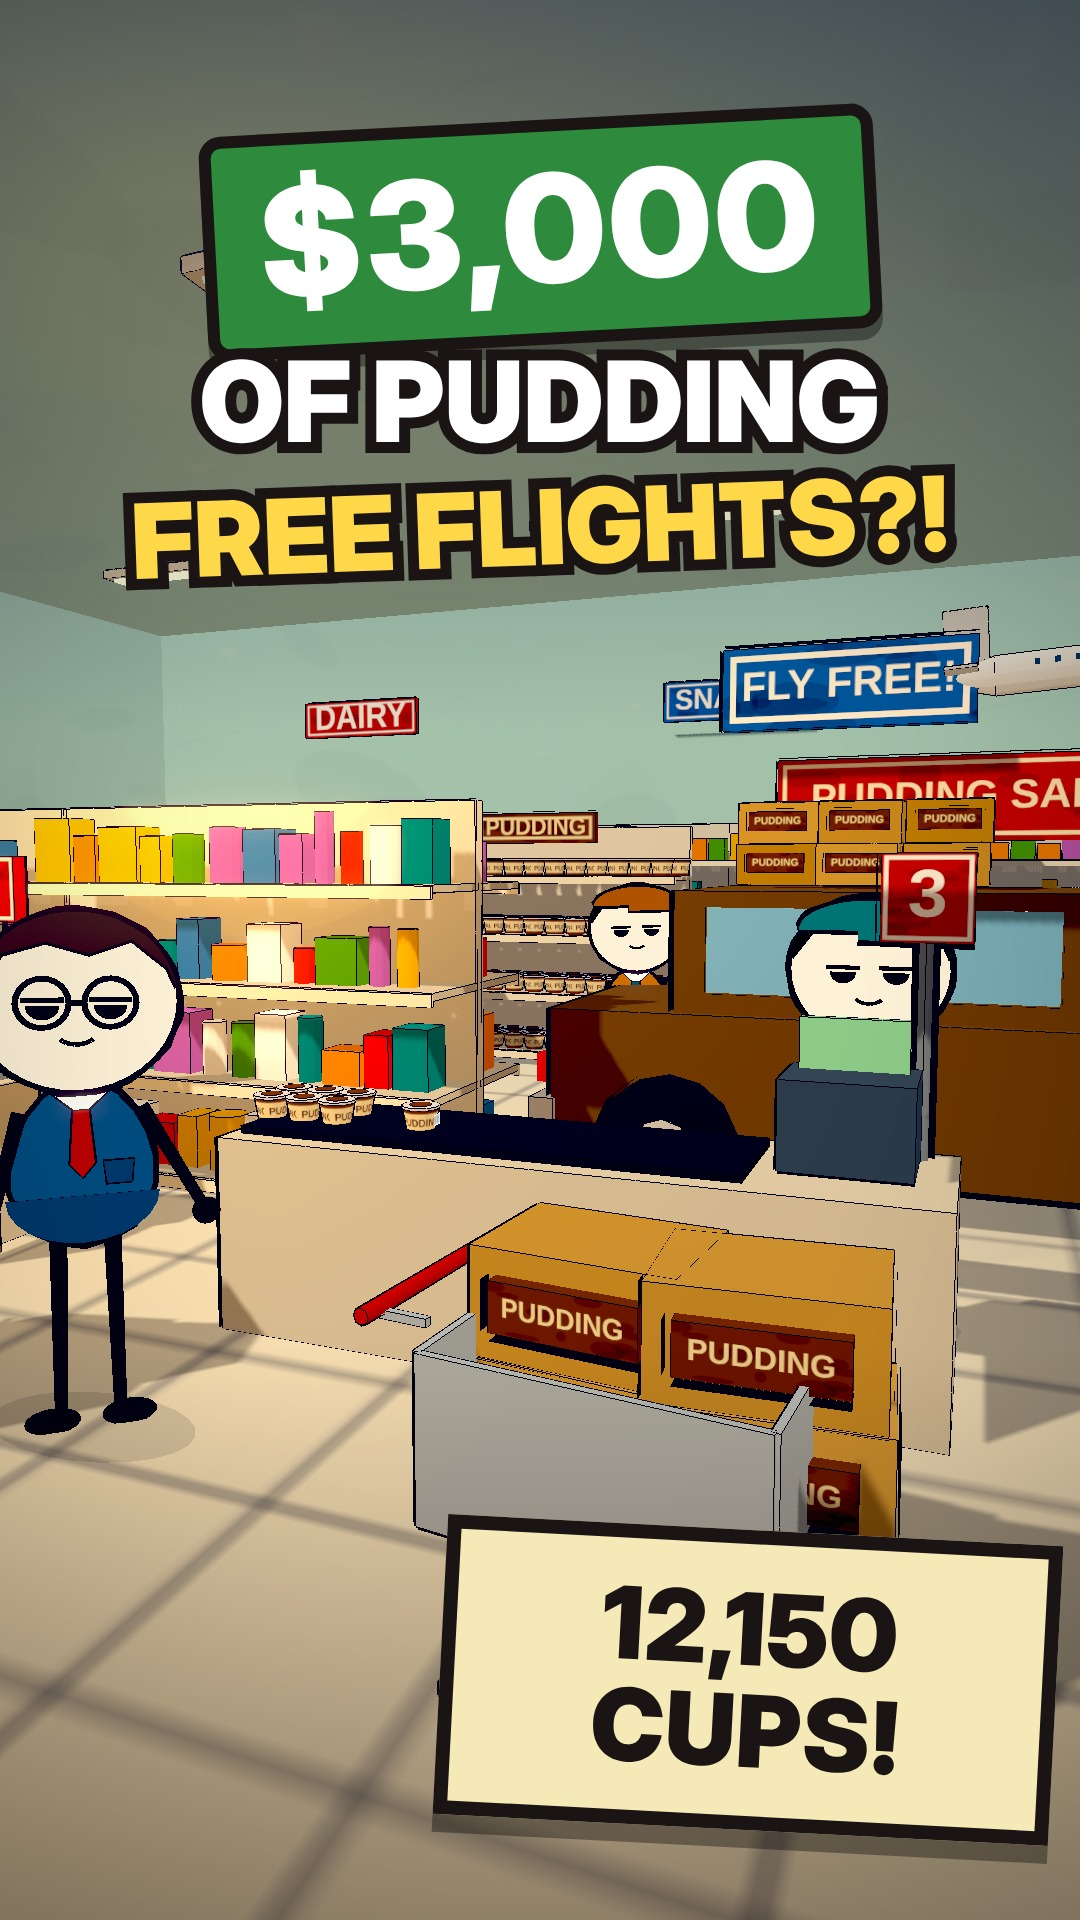
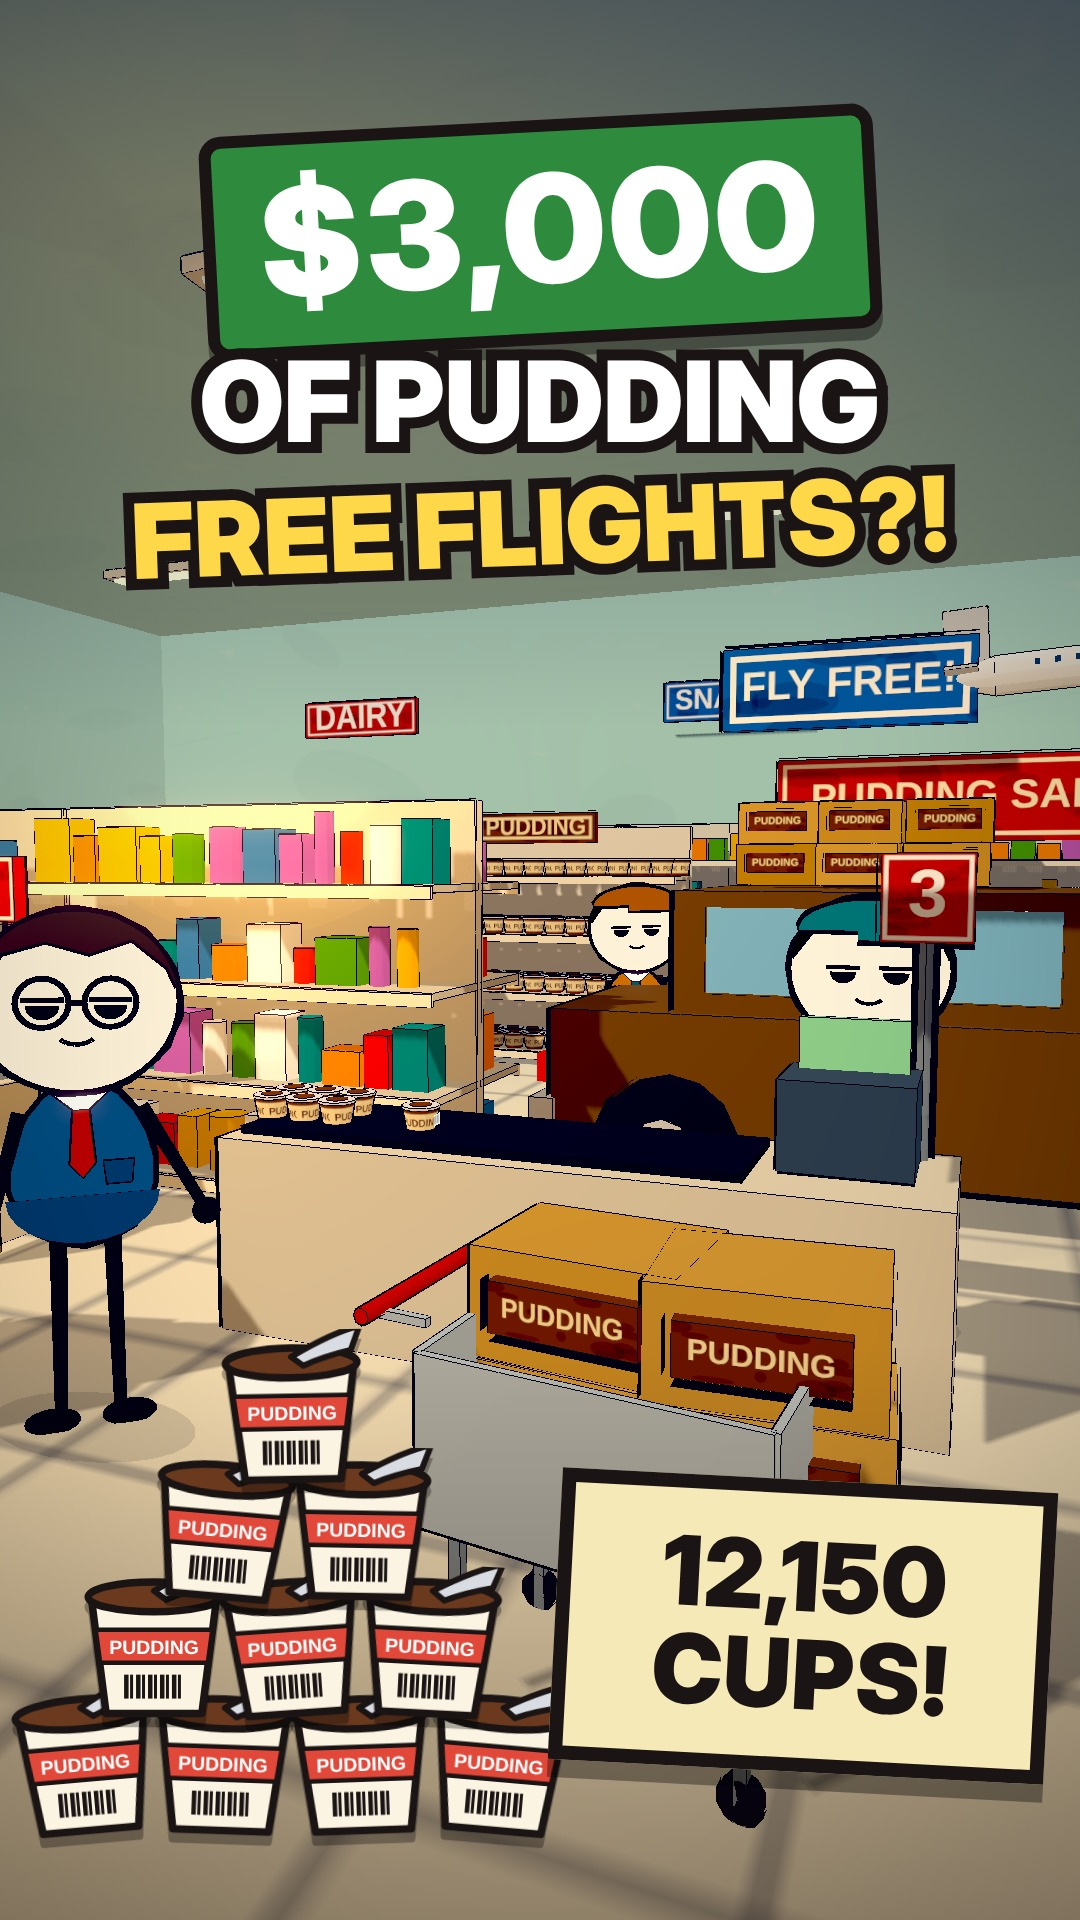
003-pudding-guy-free-flights: thumbnail with pile of pudding cups + 12,150 CUPS sign
Claude-Session: https://claude.ai/code/session_01CJVLf5XdCdR31mjai11GES

Changed region(s): [[0.0, 0.6875, 1.0, 0.9688]]

diff --git a/pipeline/thumbnail/make_thumb.py b/pipeline/thumbnail/make_thumb.py
@@ -10,6 +10,8 @@ Reads jobs/<id>/meta.json:
 - optional "sign": {"text": "LAND FOR SALE", "x": 25, "y": 870, "w": 590, "size": 92, "rotate": -3}
   draws a big, clean sign board over the scene (use it when the owner wants a prop/sign bigger or easier to read;
   place it over the 3D sign so the original post still shows under it). Coordinates are on the 1080x1920 canvas.
+- optional "cups": {"x": 10, "y": 1330, "rows": 4, "size": 150, "label": "PUDDING"} draws a pyramid of big cartoon
+  cups (generic, no logo) so the object itself grabs attention; pair it with a "sign" for the number.
 Renders a clean frame (no captions) with Remotion, overlays the text, writes jobs/<id>/thumbnail.jpg.
 """
 import json, os, subprocess, sys, shutil, html
@@ -28,12 +30,30 @@ if sg:
                  f'outline-offset:-30px;box-shadow:0 18px 0 rgba(0,0,0,.35);padding:34px 24px;text-align:center;'
                  f'font-family:\'Inter Display\',\'Arial Black\',Arial,sans-serif;font-weight:900;font-size:{sg.get("size",92)}px;'
                  f'line-height:1.02;color:#1a1414;letter-spacing:1px">{e(sg["text"])}</div>')
+cp = t.get('cups'); cups_html = ''
+if cp:  # optional pile of big cartoon cups (generic, no logo): {"x","y","rows","size","label","pudding"}
+    s = cp.get('size', 130); rows = cp.get('rows', 4); lab = e(cp.get('label', 'PUDDING')); fill = cp.get('pudding', '#6b3a1e')
+    cup = (f'<svg width="{s}" height="{int(s*1.05)}" viewBox="0 0 100 105" xmlns="http://www.w3.org/2000/svg">'
+           f'<path d="M8 22 L92 22 L82 100 L18 100 Z" fill="#fbf4e2" stroke="#1a1414" stroke-width="5" stroke-linejoin="round"/>'
+           f'<path d="M11 44 L89 44 L86 66 L14 66 Z" fill="#e2483a" stroke="#1a1414" stroke-width="3"/>'
+           f'<text x="50" y="60" text-anchor="middle" font-family="Arial Black,Arial" font-weight="900" font-size="13" fill="#fff">{lab}</text>'
+           + ''.join(f'<rect x="{30+i*4}" y="74" width="{2 if i%2 else 3}" height="16" fill="#1a1414"/>' for i in range(10)) +
+           f'<ellipse cx="50" cy="22" rx="44" ry="10" fill="{fill}" stroke="#1a1414" stroke-width="5"/>'
+           f'<path d="M50 18 Q78 2 96 -2 L90 14 Q72 18 58 24 Z" fill="#d9dde3" stroke="#1a1414" stroke-width="4" stroke-linejoin="round"/>'
+           f'</svg>')
+    for r in range(rows):  # bottom row first; each row one cup shorter, centred
+        n = rows - r; w = s * 0.92
+        for i in range(n):
+            left = cp.get('x', 20) + r * w / 2 + i * w; top = cp.get('y', 1440) + (rows - 1 - r) * s * 0.78
+            rot = ((i * 7 + r * 5) % 11) - 5
+            cups_html += f'<div style="position:absolute;left:{left:.0f}px;top:{top:.0f}px;transform:rotate({rot}deg);filter:drop-shadow(0 10px 0 rgba(0,0,0,.3))">{cup}</div>'
 l2 = t['line2']; fs2 = 150 if len(l2) <= 10 else 128 if len(l2) <= 13 else 104
 page = f'''<!DOCTYPE html><html><head><style>html,body{{margin:0;width:1080px;height:1920px;overflow:hidden}}
 body{{background:url(file://{bg}) center/cover}}
 .t{{position:absolute;left:30px;right:30px;text-align:center;font-family:'Inter Display','Arial Black',Arial,sans-serif;font-weight:900;paint-order:stroke fill;-webkit-text-stroke:22px #1a1414}}</style></head><body>
 <div style="position:absolute;inset:0;background:linear-gradient(180deg,rgba(15,30,70,.55) 0%,rgba(15,30,70,0) 38%,rgba(0,0,0,0) 70%,rgba(20,10,5,.4) 100%)"></div>
 <div style="position:absolute;top:120px;left:0;right:0;text-align:center"><span style="display:inline-block;background:{t.get('box_color','#2f6db3')};border:12px solid #1a1414;border-radius:22px;padding:6px 44px 14px;transform:rotate(-3deg);font-family:'Inter Display','Arial Black',Arial,sans-serif;font-weight:900;font-size:150px;color:#fff;letter-spacing:4px;box-shadow:0 12px 0 rgba(0,0,0,.35)">{e(t['box'])}</span></div>
+{cups_html}
 {sign_html}
 <div class="t" style="top:345px;font-size:112px;color:#fff;line-height:1">{e(t['line1'])}</div>
 <div class="t" style="top:475px;font-size:{fs2}px;color:#ffd84a;line-height:1;transform:rotate(-2deg)">{e(l2)}</div>
